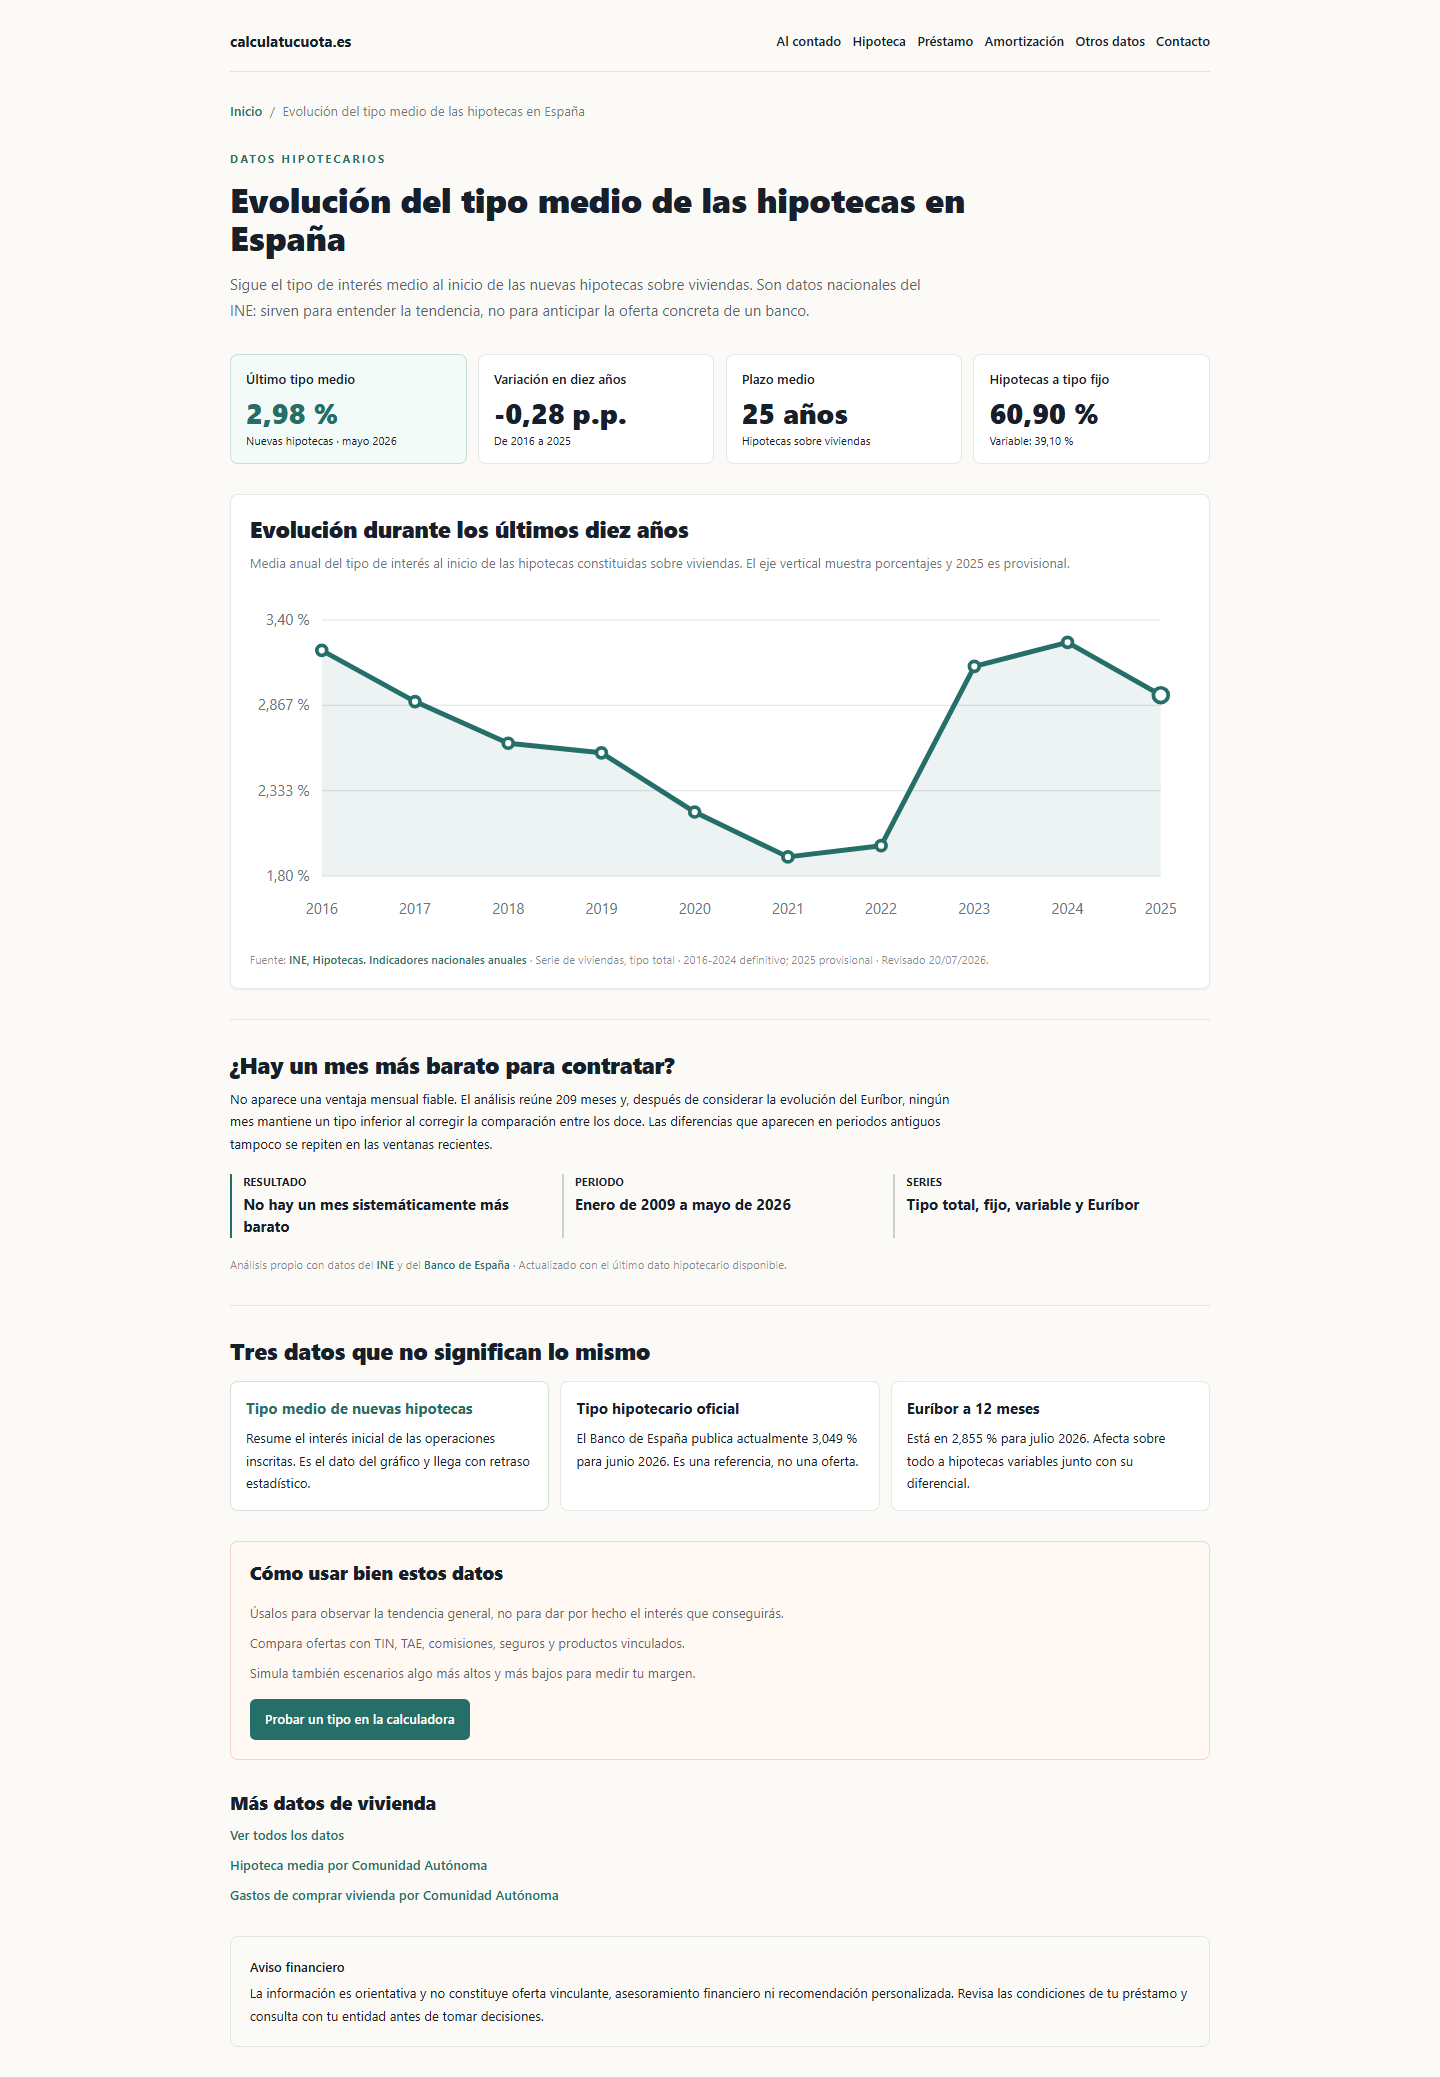
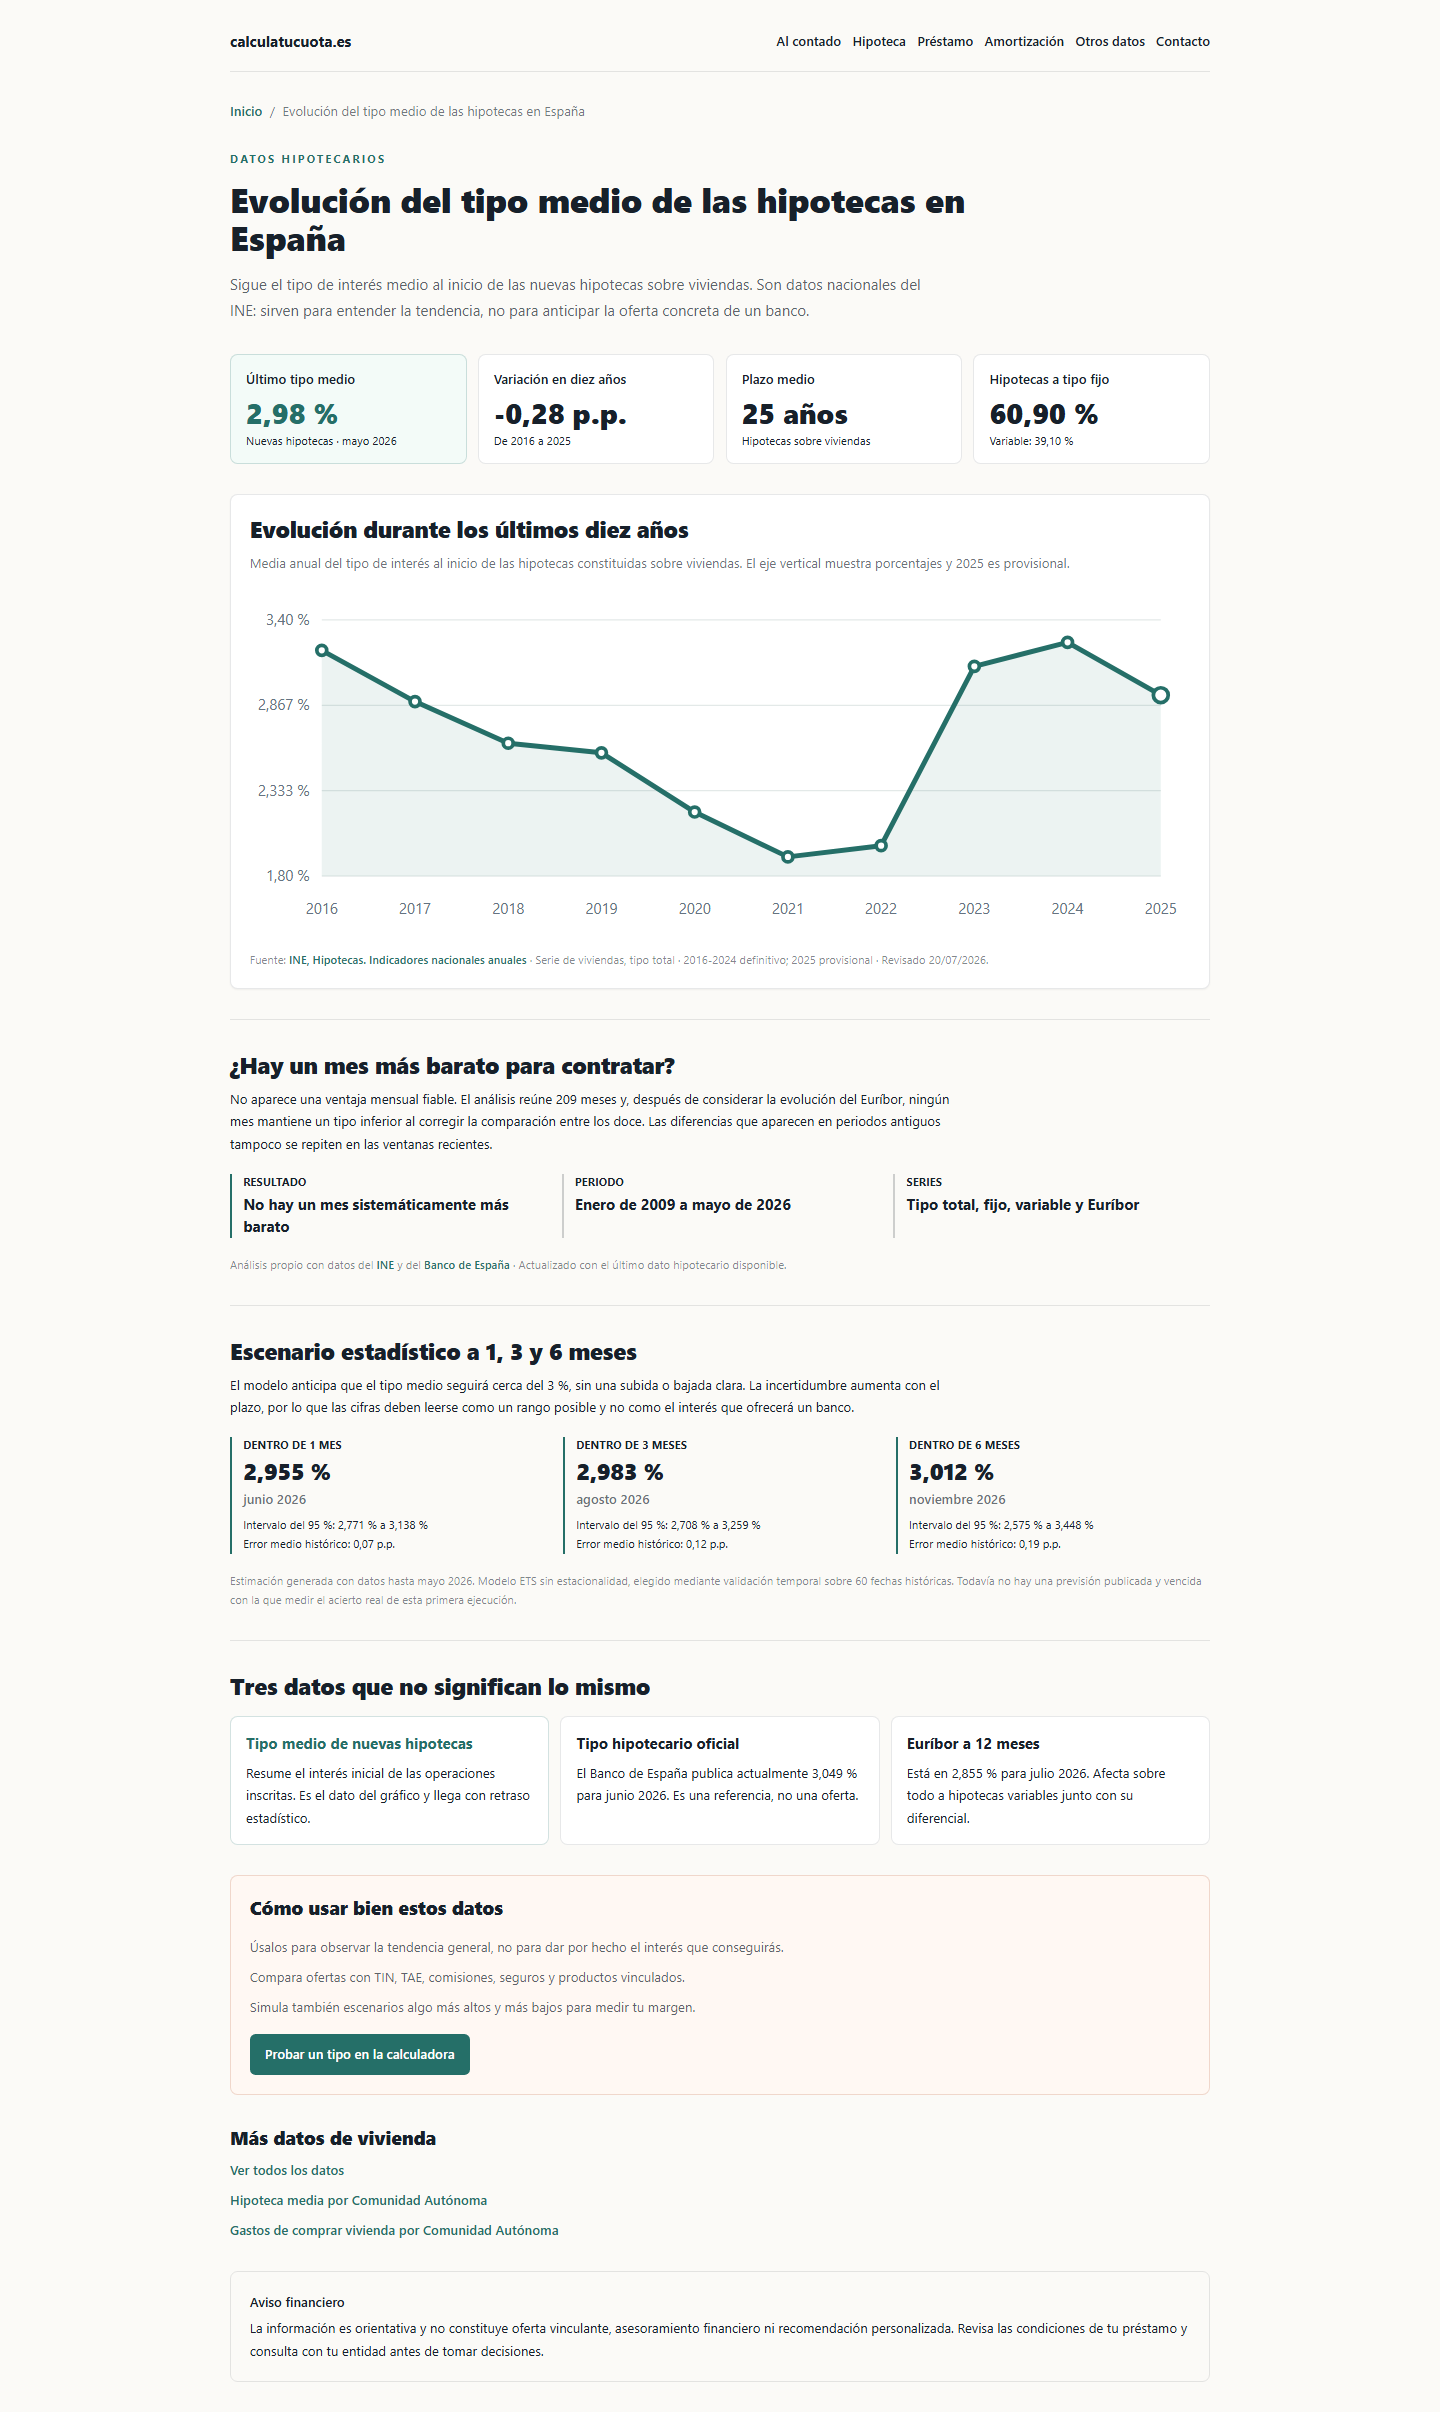
Sincroniza showcase con la previsión publicada

diff --git a/README.md b/README.md
@@ -113,10 +113,13 @@ El objetivo es que cualquier usuario pueda entender:
 - Evolución histórica de ambas series.
 - Comparación entre hipotecas a tipo fijo y variable.
 - Análisis estadístico de la estacionalidad mensual.
+- Escenario estadístico a 1, 3 y 6 meses con intervalos de incertidumbre y error histórico.
 - Actualización periódica a partir de fuentes oficiales.
 
 El análisis concluye que, una vez considerada la evolución general de los tipos,
-no existe un mes sistemáticamente más barato en el periodo reciente.
+no existe un mes sistemáticamente más barato en el periodo reciente. La página
+también publica una primera previsión experimental, diferenciada de los datos
+observados y de las ofertas bancarias.
 
 <p align="center">
   <img src="assets/screenshots/evolucion-tipo-medio-hipotecas.png" alt="Evolución del tipo hipotecario medio y análisis de estacionalidad en calculatucuota.es" width="900" />
@@ -197,7 +200,7 @@ Próximas mejoras previstas:
 - mejorar el sistema de compartir en móvil;
 - añadir comisión de amortización anticipada en porcentaje;
 - automatizar por completo la actualización mensual de los datos oficiales;
-- incorporar previsiones experimentales cuando exista suficiente historial de seguimiento fuera de muestra;
+- acumular un historial público de previsiones y resultados observados;
 - añadir más ejemplos guiados;
 - mejorar la salida visual de informes;
 - preparar comparativas más avanzadas.
